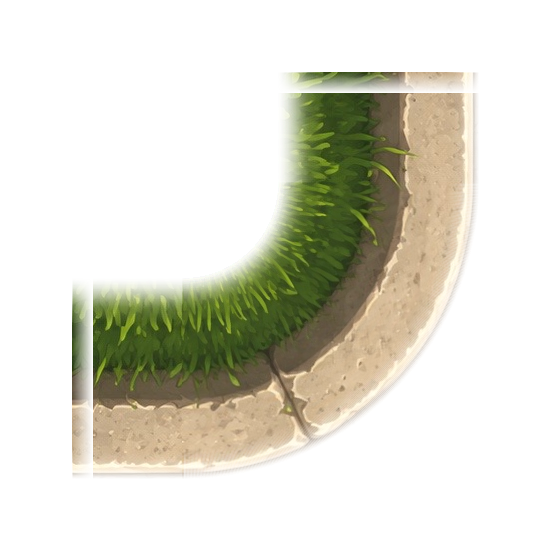
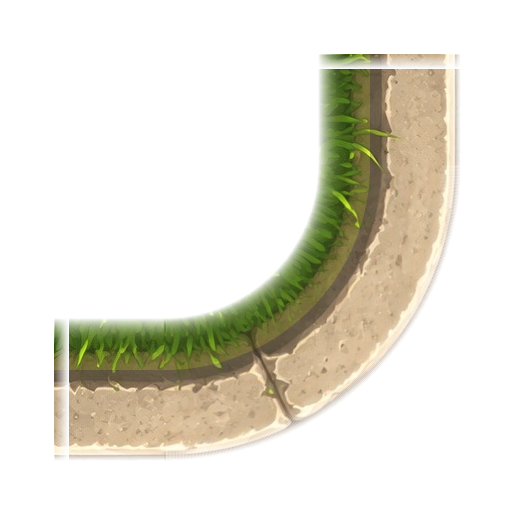
Grass curb: thin tone-matched fringe (kill the corner's square seam)
The grass corner's wide baked-grass band formed an L whose square inner
corner tone-stepped against the world grass.jpg tile — a visible right-angle
seam in the lawn. Fix, keeping the wanted "grass bleeds onto grass" look:

- Narrow the grass strips (corner + straight) to the curb plus a thin blade
  fringe (crop 0.26–0.78) so the fringe hugs the rounded curb instead of a
  wide band — its inner edge follows the curve, no square.
- Tone-match the fringe to grass.jpg (per-channel gain 1.23/1.30/0.90) so it
  fuses with the lawn instead of reading as a darker patch.
- Ramp the fringe's inner rows to alpha 0 so it dissolves into the world grass.

Re-baked sep-grass-curb.png + sep-corner-grass.png; renderer grass-band
constants retuned (GCH 40→28, GCF 0.459→0.654, GC 109→101, GE 0.699→0.713).

Claude-Session: https://claude.ai/code/session_01MzT91WcyqemncboiCffQLx

Changed region(s): [[0.093, 0.093, 0.8992, 0.8992]]

diff --git a/src/game/renderer.ts b/src/game/renderer.ts
@@ -166,8 +166,8 @@ const RCF = 0.625;
 // Grass curb (sep-grass-curb.png) — sep-grass with the sidewalk terrazzo cropped off the top (so it
 // can't bleed a mismatched patch onto the world sidewalk) but the curb + grass kept (the grass bleeds
 // softly onto the world grass, a wanted effect). GCH = band world height; GCF = the seam fraction.
-const GCH = 40;
-const GCF = 0.459;
+const GCH = 28;
+const GCF = 0.654;
 
 // Player-controlled character tuning. Movement is now bounded by the street "+" corridor
 // (see canWalk in sceneData) rather than a fixed y-band, so the player can walk the full
@@ -1505,8 +1505,8 @@ export class HollywoodRenderer {
     // world size (curb radius ≈ 41u either way) are read straight from the bake output.
     const RE = 0.847; // road-corner elbow fraction (curb-only stroked bake)
     const RC = 83; // road-corner world size (399px ÷ 4.8px/u; curb band = RCH)
-    const GE = 0.699; // grass-corner elbow fraction (sidewalk-cut concave bake)
-    const GC = 109; // grass-corner world size (552px ÷ 5.07px/u; band = GCH)
+    const GE = 0.713; // grass-corner elbow fraction (sidewalk-cut concave bake)
+    const GC = 101; // grass-corner world size (516px ÷ 5.09px/u; band = GCH)
     for (const cs of CROSS_STREETS) {
       if (cs.x + CS_HALF < vx - 20 || cs.x - CS_HALF > vR + 20) continue;
       // vertical road curbs (road EAST of the west seam, WEST of the east seam), open at the blvd

diff --git a/CLAUDE.md b/CLAUDE.md
@@ -90,9 +90,14 @@ feet-anchored to one ground-Y, which is the sort key.
   art, NOT code-drawn curbs. Straight strips (`sep-road`/`sep-grass`/`sep-joint`)
   are baked from the source curb strips with the outer edges feathered to alpha,
   then tiled along each seam by `drawSeparator` (horizontal) / `drawSeparatorV`
-  (vertical, one quarter-turn) with the art's **measured curb fraction** (road
-  0.314, grass 0.60 — NOT the band centre) pinned to the world seam Y/X, so the
-  straight curb lands exactly where a corner's curb does. A flip serves both
+  (vertical, one quarter-turn) with the art's **measured curb fraction** pinned to
+  the world seam Y/X (road curb-only strip 0.625; grass curb+fringe strip 0.654 —
+  NOT the band centre), so the straight curb lands exactly where a corner's curb
+  does. The **grass** strip keeps only the curb + a thin blade fringe (its far
+  grass cropped off and the fringe **tone-matched to `grass.jpg`** and ramped to
+  alpha 0), so the bleed dissolves into the lawn as a soft rounded fringe instead
+  of a wide band whose square inner corner tone-stepped against the world grass.
+  A flip serves both
   orientations; each horizontal curb skips only the surfaces that make it a
   non-curb there (ROAD_TOP skips just the cross-street road ±CS_ROAD_HALF, the
   sidewalk↔sidewalk/backlot curbs skip ±CS_HALF). **Corners are STROKED from the
